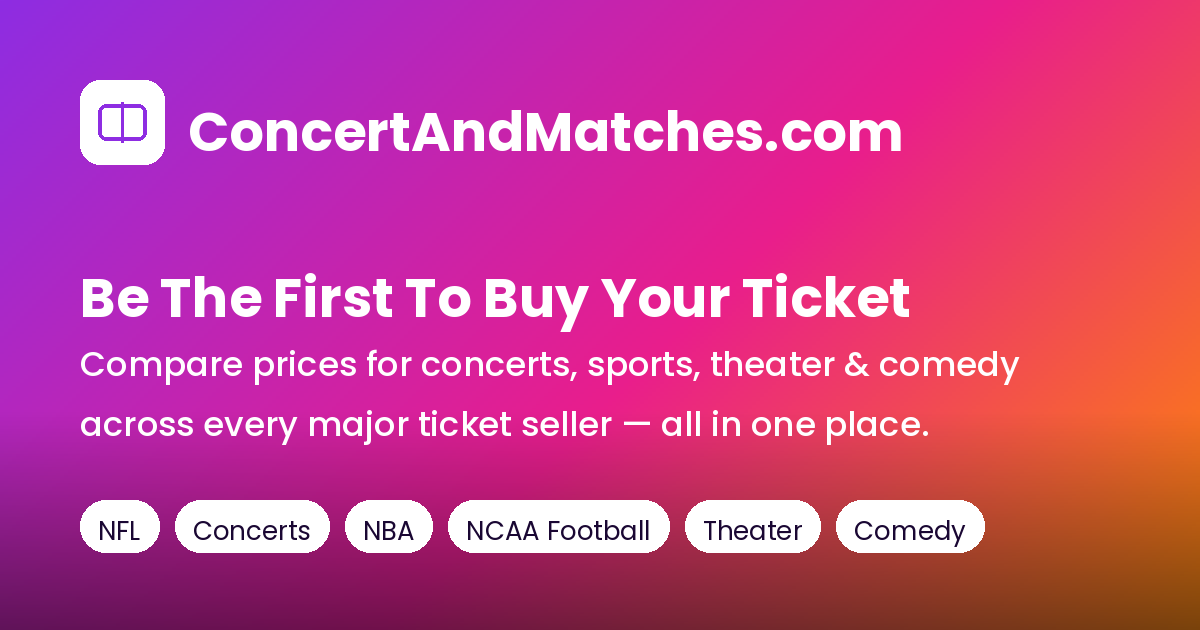
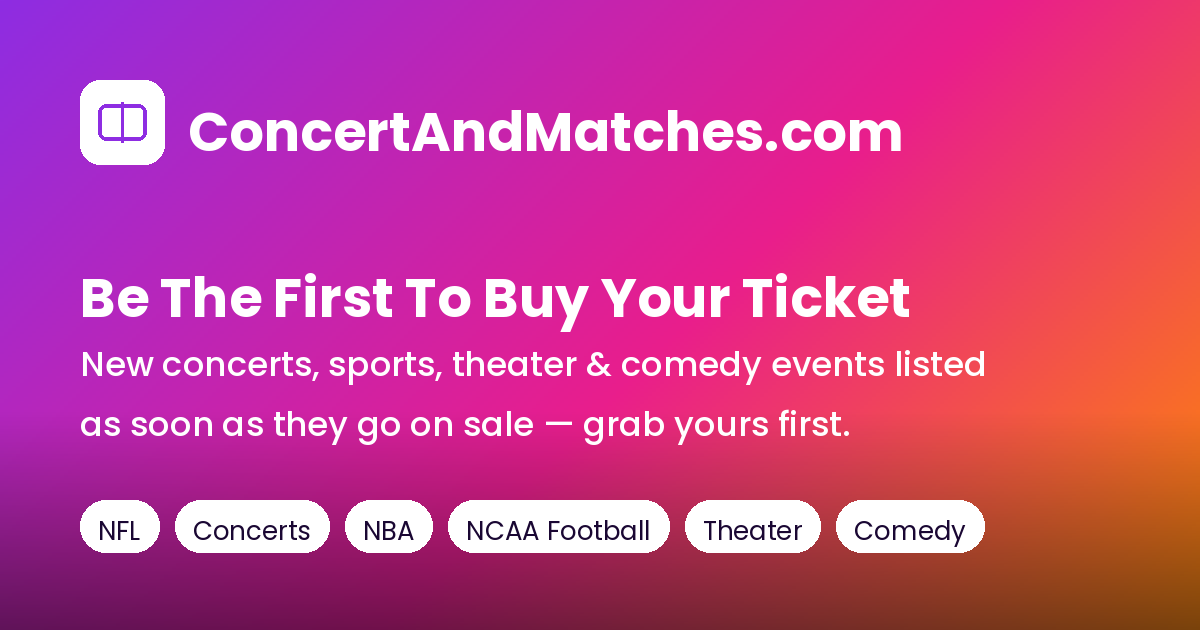
Reframe brand copy around speed-to-list, not price comparison
Business strategy pivot: instead of leading with "compare ticket
prices across sellers," homepage/meta/OG copy, the OG image tagline,
and per-event titles/descriptions now emphasize being first to list
new events so buyers can grab tickets fast. Multi-seller listings and
their disclaimer text are unchanged since that's still real, accurate
functionality — only the top-level marketing framing shifted.

Claude-Session: https://claude.ai/code/session_01GeAcgcex9R4pzcyaiitHfp

Changed region(s): [[0.0617, 0.5429, 0.8633, 0.6032], [0.0925, 0.6333, 0.7708, 0.7238]]

diff --git a/frontend/index.html b/frontend/index.html
@@ -5,20 +5,20 @@
 <link rel="icon" type="image/svg+xml" href="/vite.svg" />
 <meta name="viewport" content="width=device-width, initial-scale=1.0" />
 <meta name="impact-site-verification" value="340b879e-2a62-4801-a4bf-e8d2930630a0">
-<title>ConcertAndMatches.com — Compare Ticket Prices for Concerts, Sports & Theater</title>
-<meta name="description" content="Compare available ticket offers from multiple authorized sellers for concerts, sports, theater and events across the USA and Canada. See current prices side by side before you buy." />
+<title>ConcertAndMatches.com — Be The First To Buy Tickets for Concerts, Sports & Theater</title>
+<meta name="description" content="New concert, sports, theater and comedy events listed as soon as they're announced, with links to buy from multiple authorized sellers across the USA and Canada. Be the first to grab tickets." />
 <link rel="canonical" href="https://www.concertandmatches.com/" />
 <meta property="og:type" content="website" />
 <meta property="og:site_name" content="ConcertAndMatches.com" />
-<meta property="og:title" content="ConcertAndMatches.com — Compare Ticket Prices for Concerts, Sports & Theater" />
-<meta property="og:description" content="Compare available ticket offers from multiple authorized sellers for concerts, sports, theater and events across the USA and Canada." />
+<meta property="og:title" content="ConcertAndMatches.com — Be The First To Buy Tickets for Concerts, Sports & Theater" />
+<meta property="og:description" content="New concert, sports, theater and comedy events listed as soon as they're announced, with links to buy from multiple authorized sellers across the USA and Canada." />
 <meta property="og:url" content="https://www.concertandmatches.com/" />
 <meta property="og:image" content="https://www.concertandmatches.com/og-image.png" />
 <meta property="og:image:width" content="1200" />
 <meta property="og:image:height" content="630" />
 <meta name="twitter:card" content="summary_large_image" />
-<meta name="twitter:title" content="ConcertAndMatches.com — Compare Ticket Prices for Concerts, Sports & Theater" />
-<meta name="twitter:description" content="Compare available ticket offers from multiple authorized sellers for concerts, sports, theater and events across the USA and Canada." />
+<meta name="twitter:title" content="ConcertAndMatches.com — Be The First To Buy Tickets for Concerts, Sports & Theater" />
+<meta name="twitter:description" content="New concert, sports, theater and comedy events listed as soon as they're announced, with links to buy from multiple authorized sellers across the USA and Canada." />
 <meta name="twitter:image" content="https://www.concertandmatches.com/og-image.png" />
 <script type="application/ld+json">
 {
@@ -26,7 +26,7 @@
   "@type": "WebSite",
   "name": "ConcertAndMatches.com",
   "url": "https://www.concertandmatches.com/",
-  "description": "Compare available ticket offers from multiple authorized sellers for concerts, sports, theater and events across the USA and Canada.",
+  "description": "New concert, sports, theater and comedy events listed as soon as they're announced, with links to buy from multiple authorized sellers across the USA and Canada.",
   "potentialAction": {
     "@type": "SearchAction",
     "target": "https://www.concertandmatches.com/?q={search_term_string}",
@@ -41,7 +41,7 @@
   "name": "ConcertAndMatches.com",
   "url": "https://www.concertandmatches.com/",
   "logo": "https://www.concertandmatches.com/og-image.png",
-  "description": "Independent event discovery site that compares ticket prices across multiple authorized sellers for concerts, sports, theater and comedy."
+  "description": "Independent event discovery site that lists new concert, sports, theater and comedy events as fast as possible, with links to buy from multiple authorized sellers."
 }
 </script>
 </head>

diff --git a/frontend/src/App.jsx b/frontend/src/App.jsx
@@ -809,15 +809,15 @@ export default function App() {
   // previews fetched after the page has loaded, rather than a classic
   // no-JS crawler — real SSR would be a further, separate upgrade.
   useEffect(() => {
-    const defaultTitle = 'ConcertAndMatches.com — Compare Ticket Prices for Concerts, Sports & Theater';
-    const defaultDescription = 'Compare available ticket offers from multiple authorized sellers for concerts, sports, theater and events across the USA and Canada. See current prices side by side before you buy.';
+    const defaultTitle = 'ConcertAndMatches.com — Newly Listed Tickets for Concerts, Sports & Theater';
+    const defaultDescription = 'Be the first to buy tickets to concerts, sports, theater and comedy across the USA and Canada — new events listed from multiple authorized sellers as fast as they go on sale.';
     const canonicalEl = document.querySelector('link[rel="canonical"]');
     const descriptionEl = document.querySelector('meta[name="description"]');
     let jsonLdEl = document.getElementById('event-jsonld');
 
     if (selectedEvent) {
       const title = `${selectedEvent.title} Tickets — ${formatDate(selectedEvent.date)} | ConcertAndMatches.com`;
-      const description = `Compare ticket prices for ${selectedEvent.title}${selectedEvent.venue_name ? ` at ${selectedEvent.venue_name}` : ''}${selectedEvent.city ? ` in ${selectedEvent.city}` : ''} on ${formatDate(selectedEvent.date)}. See offers from multiple authorized sellers.`;
+      const description = `Get tickets for ${selectedEvent.title}${selectedEvent.venue_name ? ` at ${selectedEvent.venue_name}` : ''}${selectedEvent.city ? ` in ${selectedEvent.city}` : ''} on ${formatDate(selectedEvent.date)}. Listed from multiple authorized sellers.`;
       const url = `https://www.concertandmatches.com${buildEventPath(selectedEvent)}`;
 
       document.title = title;
@@ -1097,7 +1097,7 @@ export default function App() {
               <>
                 {findTicketsLinks.length > 1 && (
                   <p style={{ fontSize: '14px', color: '#666', marginBottom: '14px' }}>
-                    ConcertAndMatches doesn't sell tickets directly. This event is listed with more than one seller — compare prices below and click through to buy:
+                    ConcertAndMatches doesn't sell tickets directly. This event is listed with more than one seller — click through below to buy:
                   </p>
                 )}
                 <div style={{ display: 'flex', flexDirection: 'column', gap: '10px' }}>

diff --git a/backend/src/routes/prerender.js b/backend/src/routes/prerender.js
@@ -59,7 +59,7 @@ router.get('/event/:pathParam', async (req, res) => {
     }
 
     const title = `${event.title} Tickets — ${formatDate(event.date)} | ConcertAndMatches.com`;
-    const description = `Compare ticket prices for ${event.title}${event.venue_name ? ` at ${event.venue_name}` : ''}${event.city ? ` in ${event.city}` : ''} on ${formatDate(event.date)}. See offers from multiple authorized sellers.`;
+    const description = `Get tickets for ${event.title}${event.venue_name ? ` at ${event.venue_name}` : ''}${event.city ? ` in ${event.city}` : ''} on ${formatDate(event.date)}. Listed from multiple authorized sellers.`;
     const slug = slugify(`${event.title || event.artist_name || 'event'}-${event.city || ''}`);
     const url = `https://www.concertandmatches.com/event/${event.id}-${slug}`;
 
